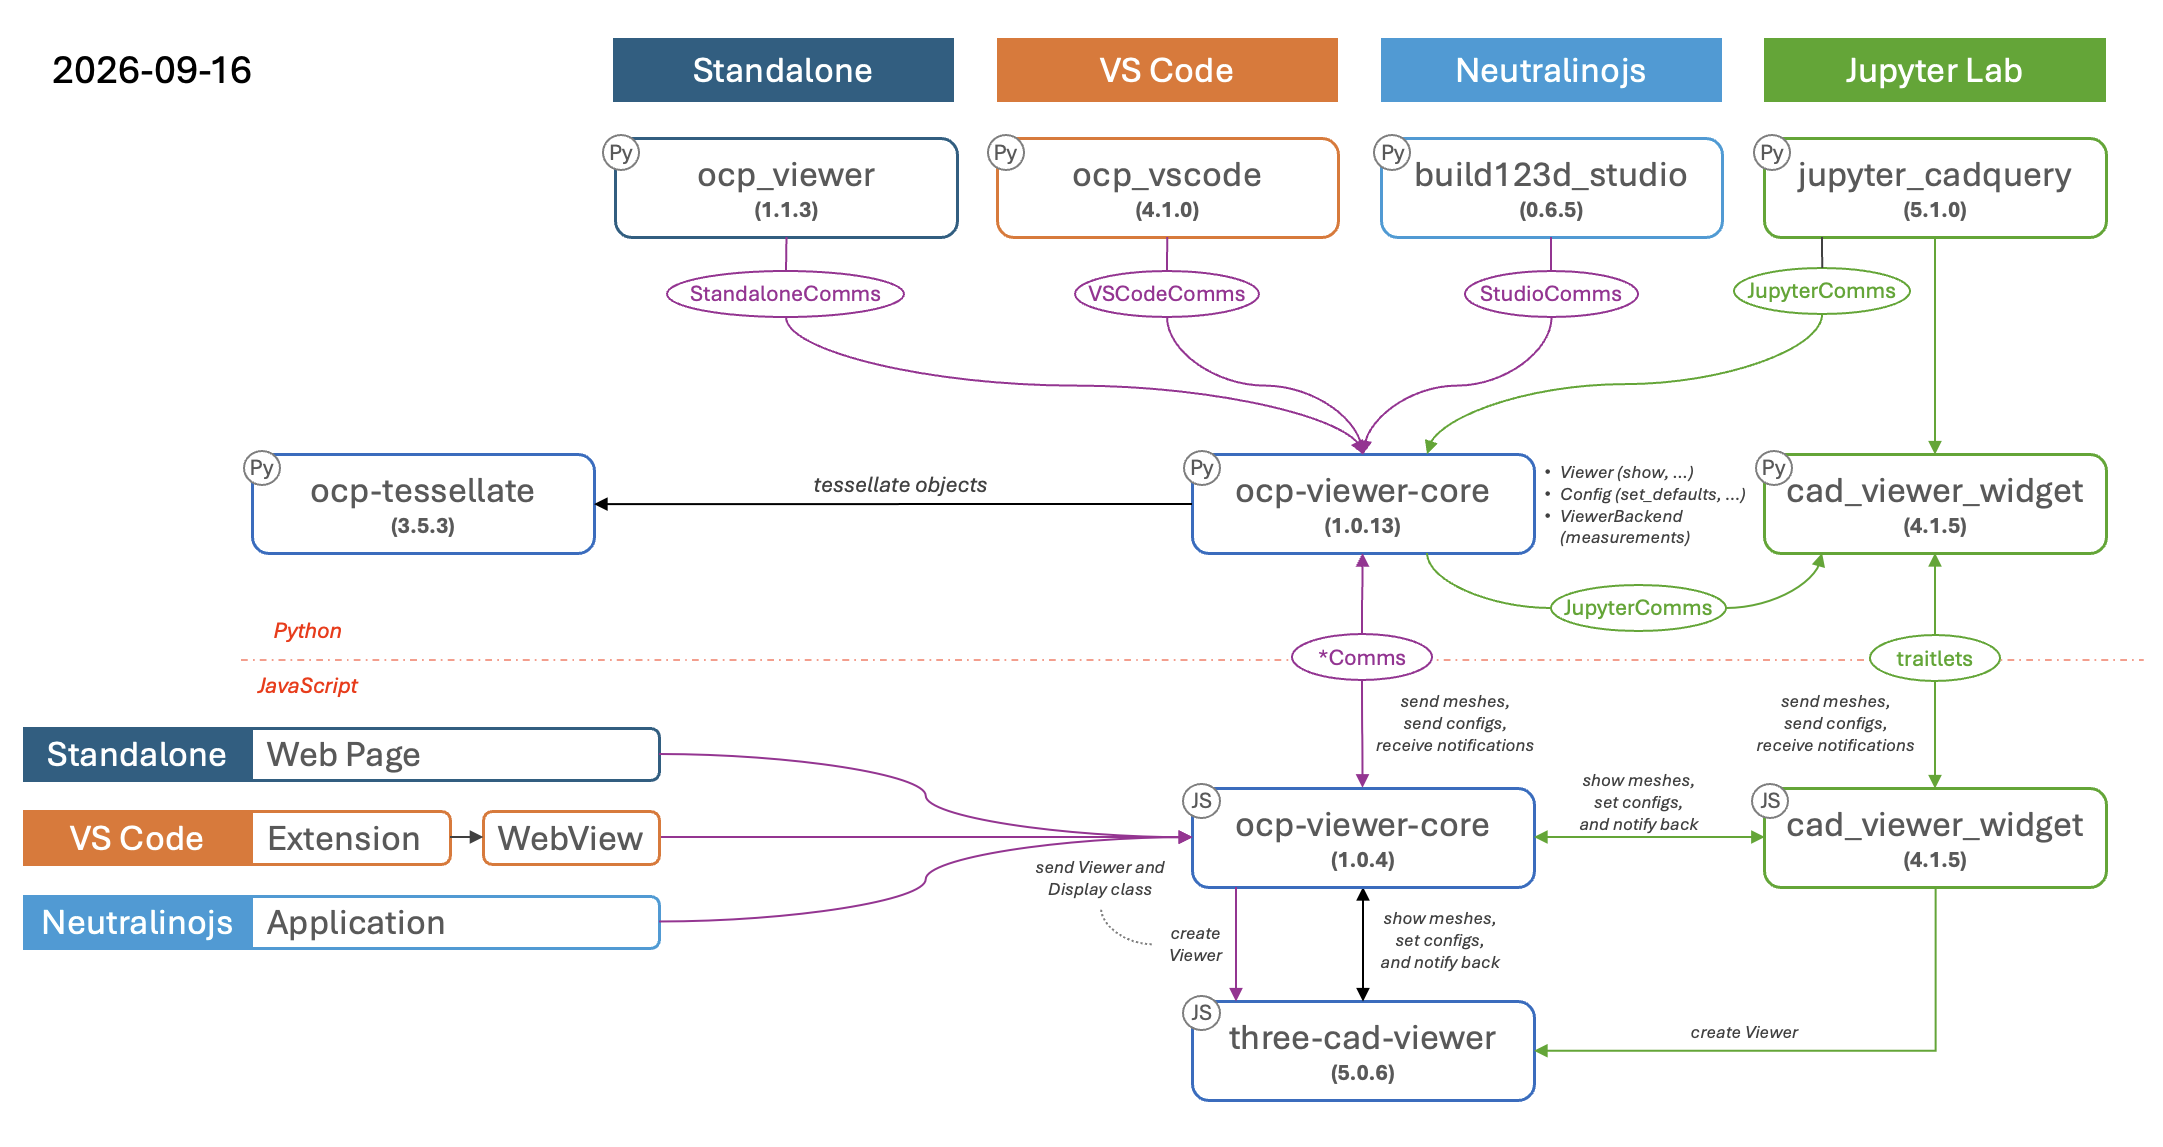
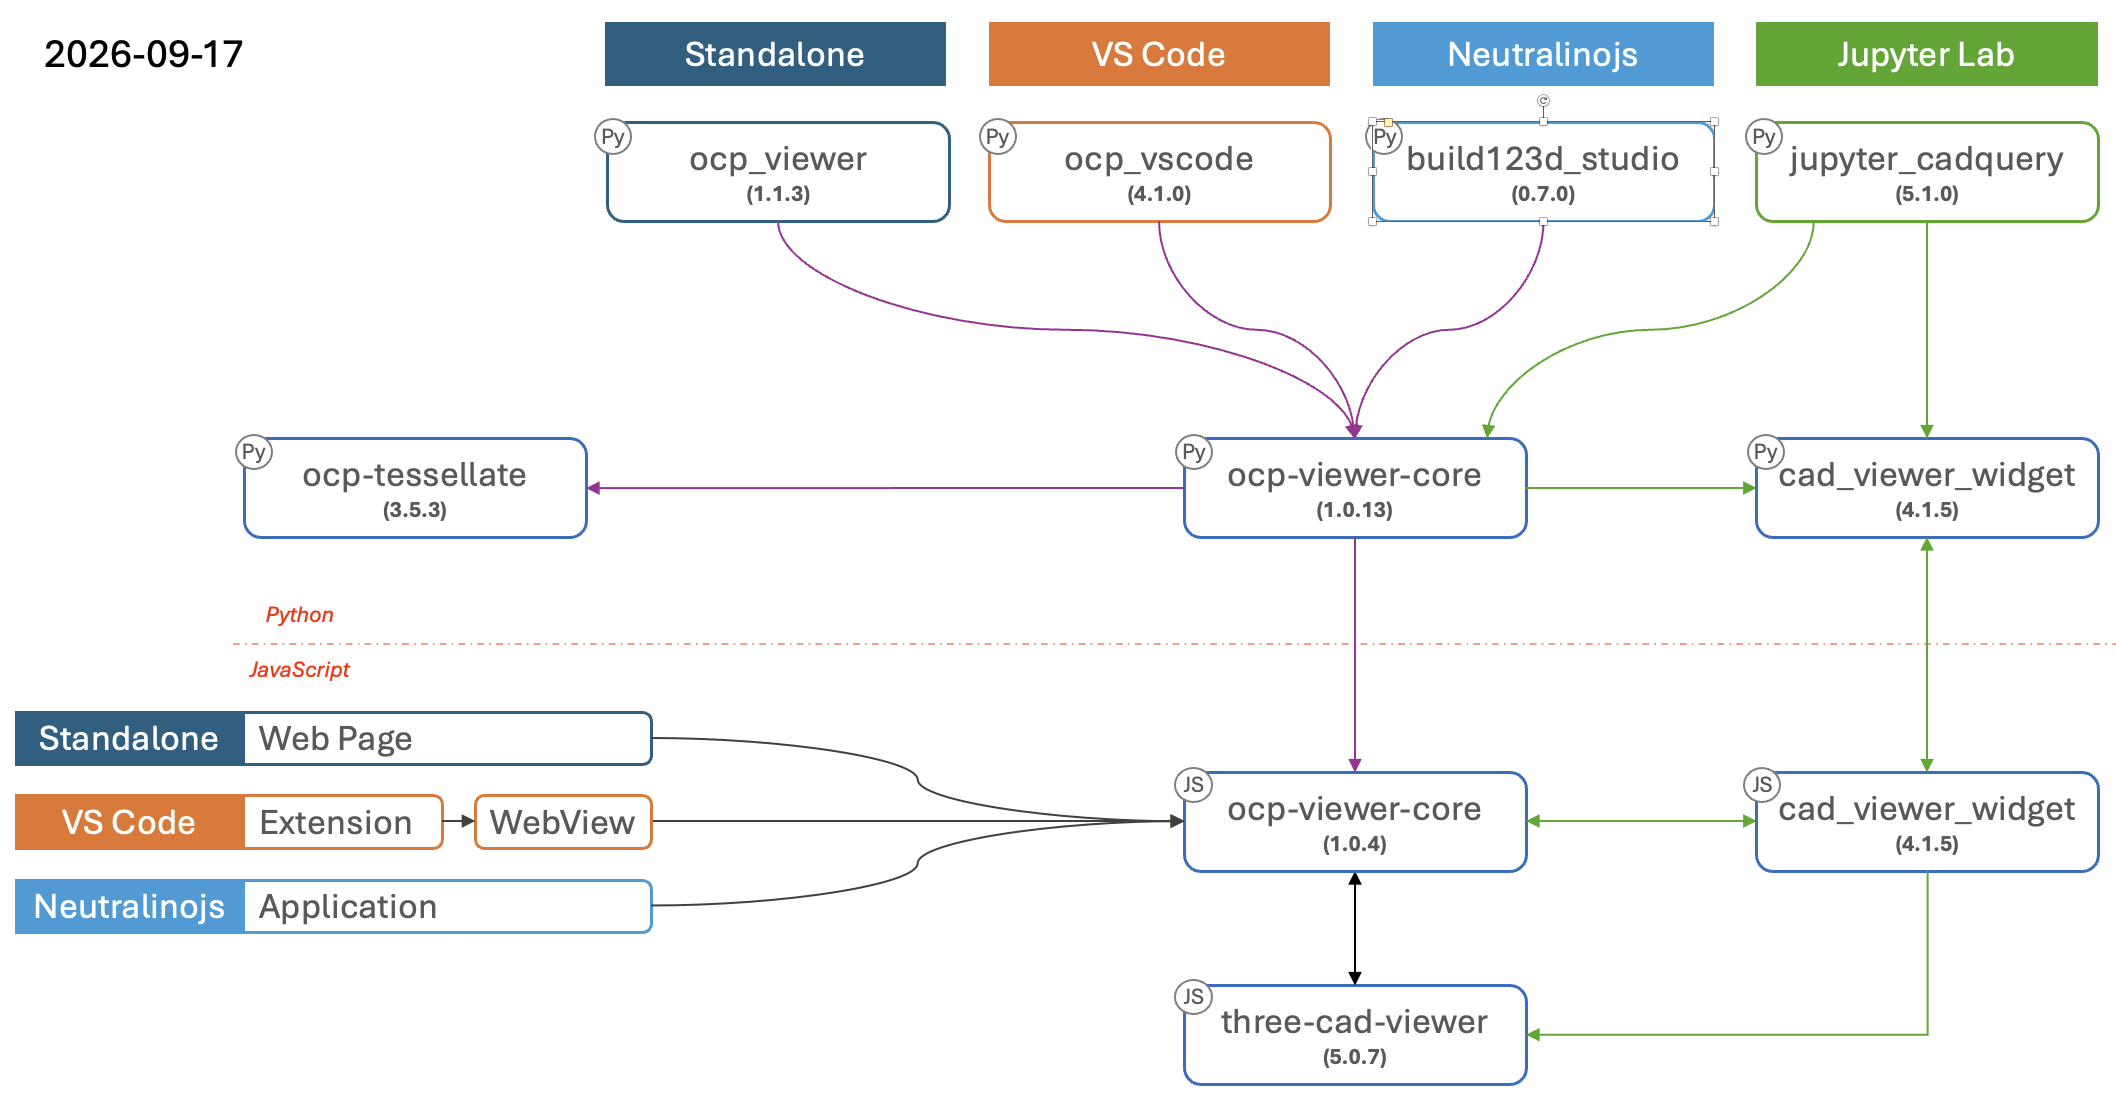
bump studio to 0.7.0

diff --git a/docs/index.md b/docs/index.md
@@ -98,6 +98,6 @@ This documentation describes the following versions — patch releases within ea
 | [OCP Viewer](https://github.com/bernhard-42/ocp-viewer) (`ocp_viewer`)                            | 1.1.x              |
 | [Jupyter CadQuery](https://github.com/bernhard-42/jupyter-cadquery) (`jupyter_cadquery`)          | 5.1.x              |
 | [cad-viewer-widget](https://github.com/bernhard-42/cad-viewer-widget)                             | 4.1.x              |
-| [build123d Studio](https://github.com/bernhard-42/build123d-studio)                               | 0.6.x              |
+| [build123d Studio](https://github.com/bernhard-42/build123d-studio)                               | 0.7.x              |
 | [three-cad-viewer](https://github.com/bernhard-42/three-cad-viewer)                               | 5.0.x              |
 | [ocp-tessellate](https://github.com/bernhard-42/ocp-tessellate)                                   | 3.5.x              |
